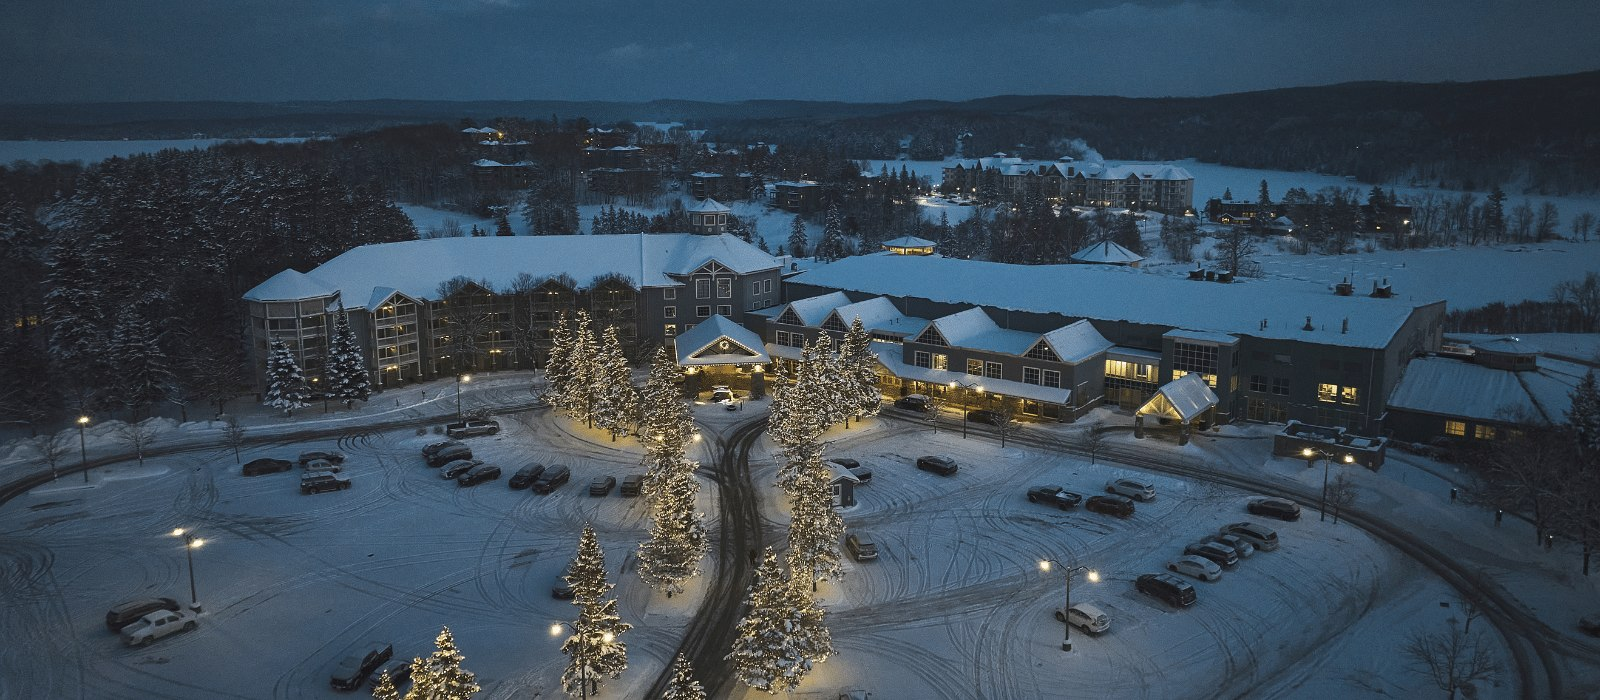
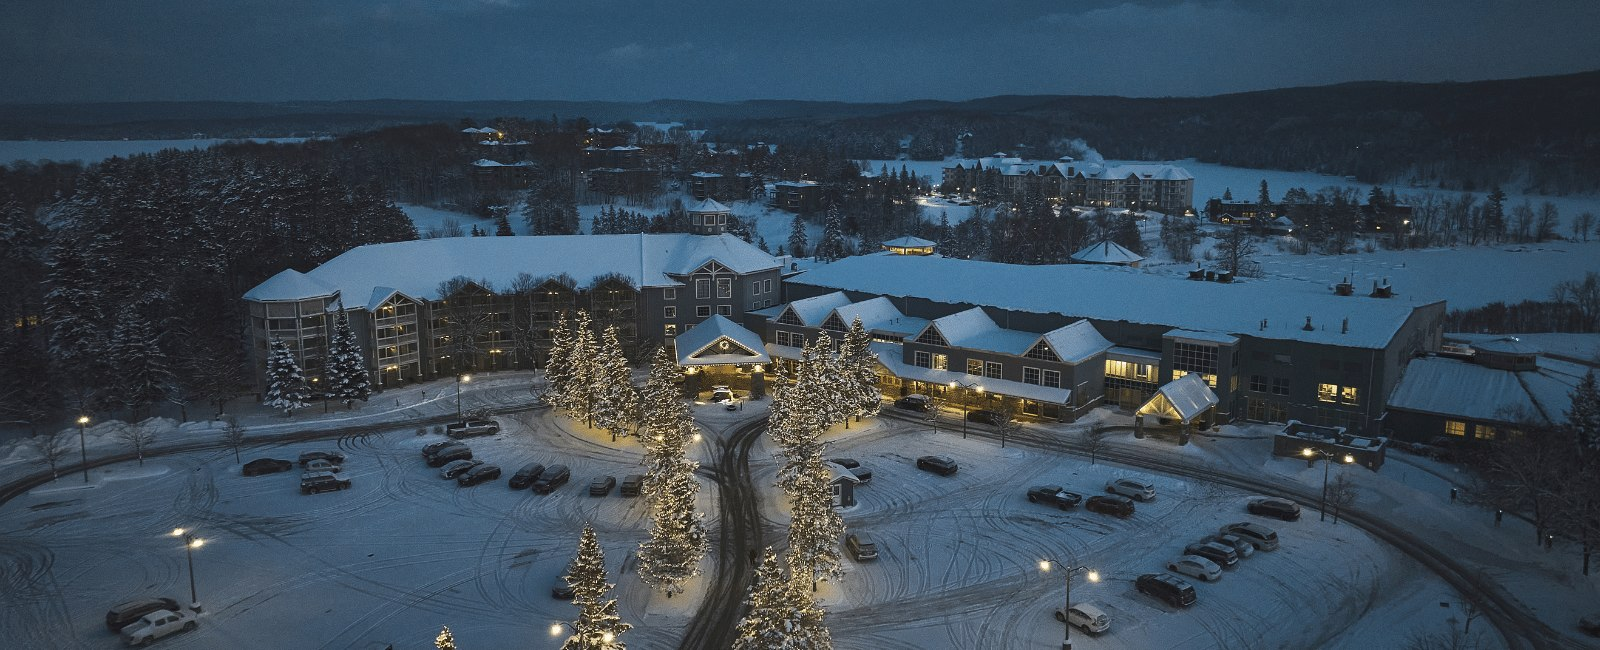
WCG hub: stacked tiles, Directions rename, shorter hero
Tiles stack full width at every size (no more squished Activities &
rentals). Getting there is now Directions with "Getting there: map,
directions, and address". Hero trimmed: photo cropped more from the
bottom and the header shortened.

Claude-Session: https://claude.ai/code/session_01Xc8Kv93BdNPe4TRn85qDju

diff --git a/wcg2027-guest-hub/hub.css b/wcg2027-guest-hub/hub.css
@@ -90,7 +90,7 @@ body:has(#husna-hub) .elementor-widget-html{margin-bottom:0 !important}
   /* ---------- hero: night sky — Deerhurst aerial, Saaima's title artwork in the sky · © 2026 Saaima Saleh ---------- */
   #husna-hub .hh-hero{
     position:relative;overflow:hidden;color:var(--white);background:#16222E;
-    min-height:640px;display:flex;flex-direction:column;
+    min-height:600px;display:flex;flex-direction:column;
     padding:calc(18px + env(safe-area-inset-top,0px)) 16px 0;
   }
   #husna-hub .hh-hero__ph{
@@ -159,8 +159,7 @@ body:has(#husna-hub) .elementor-widget-html{margin-bottom:0 !important}
 
   /* ---------- groups & tiles · © 2026 Saaima Saleh ---------- */
   #husna-hub .hh-group{margin-top:22px}
-  #husna-hub .hh-grid{display:grid;grid-template-columns:1fr 1fr;gap:12px;margin-top:10px}
-  #husna-hub .hh-grid > :nth-child(odd):last-child{grid-column:1 / -1}   /* an odd last tile spans the row */
+  #husna-hub .hh-grid{display:grid;grid-template-columns:1fr;gap:12px;margin-top:10px}   /* tiles stack full width */
   #husna-hub button.hh-tile,#husna-hub .hh-tile{
     display:flex;align-items:stretch;width:100%;height:66px;border-radius:var(--r);overflow:hidden;
     background:var(--white);border:1px solid var(--ice-pale);box-shadow:var(--shadow);color:var(--ink);
@@ -324,7 +323,7 @@ body:has(#husna-hub) .elementor-widget-html{margin-bottom:0 !important}
   @media (min-width:900px){
     #husna-hub .hh-wrap{padding-inline:40px}
     /* hero: logo left, title centred; the timer stays exactly as it is on mobile · © 2026 Saaima Saleh */
-    #husna-hub .hh-hero{min-height:560px;padding:26px 48px 0}
+    #husna-hub .hh-hero{min-height:530px;padding:26px 48px 0}
     #husna-hub .hh-hero__ph{object-position:50% 78%}
     #husna-hub .hh-count{max-width:492px}
     #husna-hub .hh-actions{max-width:492px}
@@ -342,7 +341,6 @@ body:has(#husna-hub) .elementor-widget-html{margin-bottom:0 !important}
     #husna-hub .hh-group{margin-top:0}
     #husna-hub .hh-eyebrow{font-size:11px}
     #husna-hub .hh-grid{grid-template-columns:1fr;gap:10px}
-    #husna-hub .hh-group[data-cols="2"] .hh-grid{grid-template-columns:1fr 1fr}
     #husna-hub .hh-tile{height:72px;border-radius:16px}
     #husna-hub .hh-tile img{width:62px !important}
     #husna-hub .hh-tile__txt{padding:0 16px}

diff --git a/wcg2027-guest-hub/hub-wordpress.html b/wcg2027-guest-hub/hub-wordpress.html
@@ -80,7 +80,7 @@
           </button>
           <button class="hh-tile" type="button" data-open="hh-map">
             <img data-src="map" alt="">
-            <span class="hh-tile__txt"><b>Getting there</b><span>Map &amp; directions</span></span>
+            <span class="hh-tile__txt"><b>Directions</b><span>Getting there: map, directions, and address</span></span>
           </button>
         </div>
       </section>
@@ -172,7 +172,7 @@
   <dialog class="hh-full hh-dlg" id="hh-map" aria-labelledby="hh-map-t">
     <div class="hh-full__head">
       <button class="hh-back" type="button" data-close aria-label="Back"><svg viewBox="0 0 24 24" fill="none" stroke="currentColor" stroke-width="2" stroke-linecap="round" stroke-linejoin="round"><path d="M15 6l-6 6 6 6"/></svg></button>
-      <div><span class="hh-eyebrow">Before you go</span><h2 id="hh-map-t">Getting there</h2></div>
+      <div><span class="hh-eyebrow">Before you go</span><h2 id="hh-map-t">Directions</h2></div>
     </div>
     <div class="hh-dlg__body">
       <p class="hh-lead"><b style="font-weight:600">Deerhurst Resort</b><br>1235 Deerhurst Drive, Huntsville, ON &middot; about 2&frac12; hours north of the GTA.</p>
